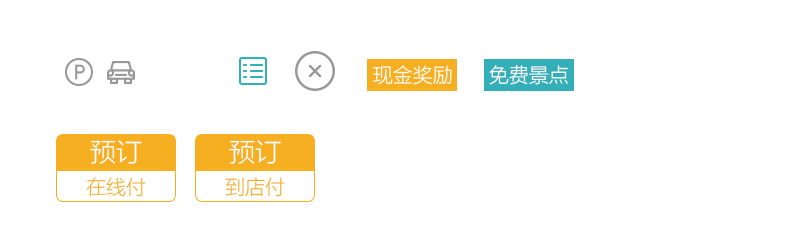
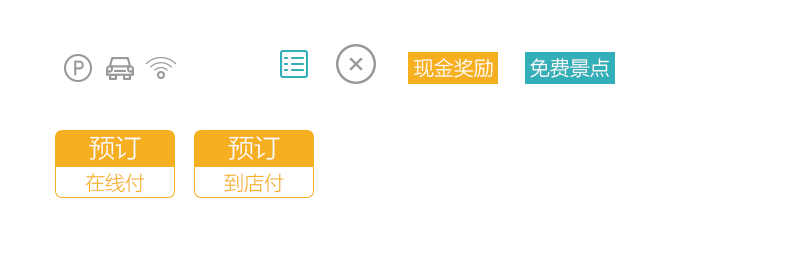
HFTicon_hotel图标更新

diff --git a/assets/hotel_flight_tour/css/hft_order.css b/assets/hotel_flight_tour/css/hft_order.css
@@ -54,9 +54,9 @@ body{
   margin-right: .16rem;
   width: .5rem;
   height: .5rem;
-  background-image: url(../../images/ui/ticket_hotel.png);
-  background-position: 2.33rem 2.33rem;
-  background-size: 5.2rem 4.12rem;
+  background: url(../../images/ui/icon_common.png) no-repeat;
+  background-position: -20px -61px;
+  background-size: 6.6rem 4.6rem;
 }
 
 .fht_hd_det{
@@ -68,7 +68,7 @@ body{
   vertical-align: top;
   margin-top: .2rem;
   margin-left: .12rem;
-  background: url(../../images/hotel_flight_tour/flight_det.png) no-repeat;
+  background: url(../../images/ui/icon_common.png) no-repeat;
   background-size: .32rem .32rem;
   width: .32rem;
   height: .32rem;
